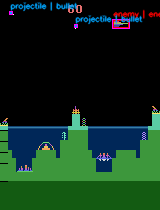
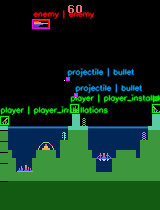
fix: dimension bug for xy_pairs + register quirks up until atlantis

Changed region(s): [[0.0, 0.4, 1.0, 0.6], [0.0625, 0.0, 1.0, 0.1429], [0.4062, 0.3143, 0.8438, 0.4]]

diff --git a/praktikum_obj_detection_team/data_extractor.py b/praktikum_obj_detection_team/data_extractor.py
@@ -12,8 +12,8 @@ TARGET_FRAMES  = 10
 DEBUG_MODE     = True
 DEBUG_LABELS   = True #false = hide text
 
-RUN_ALL_GAMES      = True
-SINGLE_GAME_TARGET = "alien"
+RUN_ALL_GAMES      = False
+SINGLE_GAME_TARGET = "atlantis"
 
 # Atari screen dimensions
 SCREEN_W = 160.0
@@ -45,8 +45,10 @@ CLASS_COLORS = {
 # identifies how the obj is stored
 TYPE_BORDER = {
     "entity": (255,   0, 255),   # magenta
-    "grid":   (255,   255, 0),   # cyan
-    "static_entity": (0,   255,   255)
+    "xy_pairs":      (255, 100,   0),   # orange-red
+    "flat_per_row":  ( 64, 255, 255),   # cyan
+    "true_2d_grid":  (255, 255,   0),   # yellow
+    "static_entity": (  255, 0, 0),   # blue
 }
 
 with open(REGISTRY_PATH, "r") as f:
@@ -94,58 +96,12 @@ def extract_entity(obj_data, entry):
     return boxes
 
 
-def extract_grid(obj_data, entry):
-    """
-    Raw flat / 2-D JAX array where each element represents one tile.
-    Non-zero (matching active_value) cells become bounding boxes.
-
-    Tune grid_origin_x/y and cell_w/h in the registry
-    """
-    origin_x  = entry.get("grid_origin_x") or 0
-    origin_y  = entry.get("grid_origin_y") or 0
-    cell_w    = entry.get("cell_w") or 8
-    cell_h    = entry.get("cell_h") or 8
-    grid_cols = entry.get("grid_cols")
-    active_v  = entry.get("active_value") if entry.get("active_value") is not None else 1.0
-
-    if not grid_cols or grid_cols == "TODO":
-        print(f"      [SKIP] grid_cols not set — update registry and re-run")
-        return []
-    try:
-        arr = np.array(obj_data).reshape(-1)
-    except Exception:
-        return []
-
-    # 3-D stacked frames: (frames, rows, cols) — unwrap to frame 0
-    raw_shape = entry.get("_raw_shape") or []
-    if len(raw_shape) >= 3:
-        try:
-            arr = np.array(obj_data[0]).reshape(-1)
-        except Exception:
-            pass
-
-    boxes = []
-    for idx, val in enumerate(arr):
-        fval = float(val)
-        if fval == 0.0 and active_v != 0.0:
-            continue
-        if active_v != 1.0 and fval != active_v:
-            continue
-        col = idx % int(grid_cols)
-        row = idx // int(grid_cols)
-        px  = origin_x + col * cell_w
-        py  = origin_y + row * cell_h
-        boxes.append((px, py, cell_w, cell_h))
-
-    return boxes
-
-
 def extract_xy_pairs(obj_data, entry):
     try:
         x_off = entry.get("x_offset") or 0
         y_off = entry.get("y_offset") or 0
-        cw = entry.get("cell_w") or 8
-        ch = entry.get("cell_h") or 8
+        cw = entry.get("obj_w") or entry.get("cell_w") or 8
+        ch = entry.get("obj_h") or entry.get("cell_h") or 8
         boxes = []
         for pair in obj_data[0]:
             x = float(pair[0]) + x_off
@@ -158,6 +114,7 @@ def extract_xy_pairs(obj_data, entry):
 
 
 def extract_true_2d_grid(obj_data, entry):
+    """[4, R, C] — maps tile layouts dynamically based on row/column indices."""
     try:
         grid, boxes = obj_data[0], []
         rows, cols = grid.shape
@@ -176,16 +133,63 @@ def extract_true_2d_grid(obj_data, entry):
 
 
 def extract_flat_per_row(obj_data, entry):
+    """
+    [4, 210] — splits continuous vertical contours into manageable chunks
+    so extreme bounding box aspect ratios do not break YOLOv8 training.
+    """
+    x_off = entry.get("x_offset") or 0
+    y_off = entry.get("y_offset") or 0
+    obj_w = entry.get("obj_w") or 8
+    active_v = entry.get("active_value")
+    max_run = int(entry.get("max_run_height") or 32)
+
     try:
-        indices = np.where(obj_data[0] > 1)[0]
-        if not len(indices): return []
-        min_y, max_y = float(np.min(indices)), float(np.max(indices))
-        x_vals = obj_data[0][indices]
-        min_x, max_x = float(np.min(x_vals)), float(np.max(x_vals))
-        w, h = max_x - min_x, max_y - min_y
-        return [(min_x, min_y, w, h)] if w > 0 and h > 0 else []
+        row_vals = np.array(obj_data[0], dtype=float)
     except Exception:
         return []
+
+    if active_v is not None:
+        active_mask = row_vals == float(active_v)
+    else:
+        active_mask = row_vals > 1
+
+    boxes = []
+
+    def _flush_segment(run_start, run_xs):
+        for chunk_start in range(0, len(run_xs), max_run):
+            chunk = run_xs[chunk_start : chunk_start + max_run]
+            x_min = float(min(chunk))
+            x_max = float(max(chunk))
+            y_top = run_start + chunk_start
+            boxes.append((
+                x_min + x_off,
+                float(y_top) + y_off,
+                (x_max - x_min) + float(obj_w),
+                float(len(chunk)),
+            ))
+
+    in_run = False
+    run_start = 0
+    run_xs = []
+
+    for y_idx in range(len(row_vals)):
+        if bool(active_mask[y_idx]):
+            if not in_run:
+                in_run = True
+                run_start = y_idx
+                run_xs = []
+            run_xs.append(float(row_vals[y_idx]))
+        else:
+            if in_run:
+                in_run = False
+                if run_xs:
+                    _flush_segment(run_start, run_xs)
+                run_xs = []
+
+    if in_run and run_xs:
+        _flush_segment(run_start, run_xs)
+
+    return boxes
 
 def to_yolo(class_id, x, y, w, h):
     xc = min((x + w / 2.0) / SCREEN_W, 1.0)
